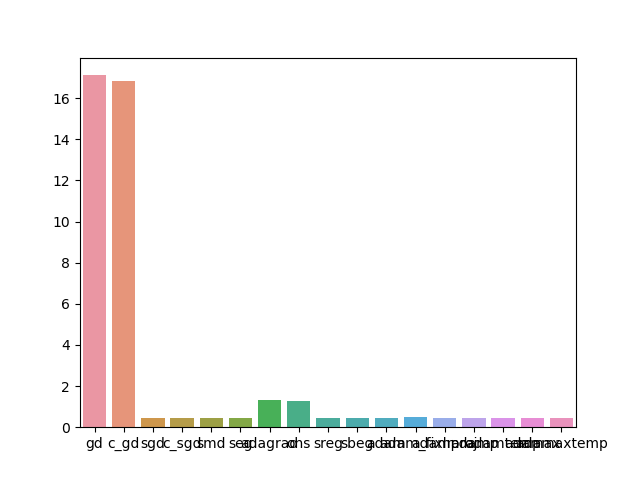
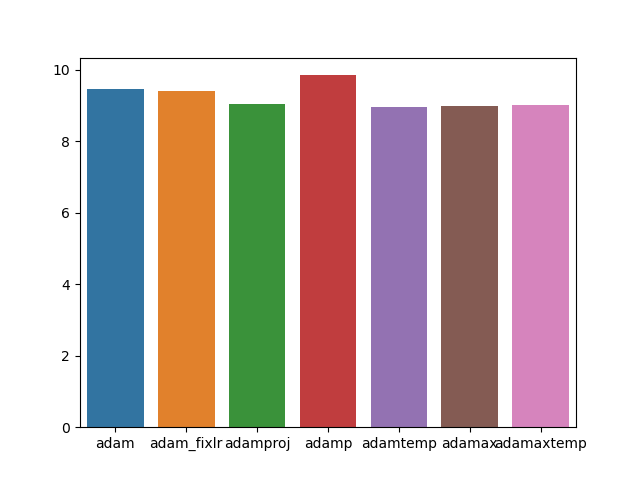
add png in gitignore

diff --git a/main.py b/main.py
@@ -28,7 +28,7 @@ from utils import *
 np.random.seed(123)
 
 lr = 0.1
-nepoch = 50
+nepoch = 1000
 lbd = 1/3
 z = 100
 gamma = 1/8
@@ -36,6 +36,8 @@ verbose = 1
 
 alg_to_run = ['gd', 'c_gd', 'sgd', 'c_sgd', 'smd', 'seg', 'adagrad', 'ons',
               'sreg', 'sbeg', 'adam', 'adam_fixlr', 'adamproj', 'adamp', 'adamax', 'adamtemp', 'adamaxtemp']
+
+alg_to_run = ['adam', 'adam_fixlr', 'adamproj', 'adamp', 'adamax', 'adamtemp', 'adamaxtemp']
 
 
 ############################### Read and prepare data ###############################
